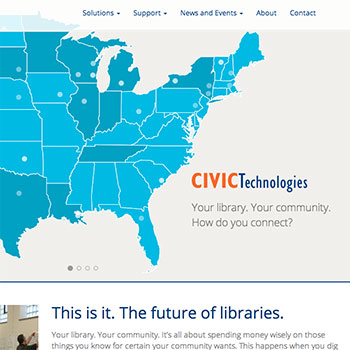
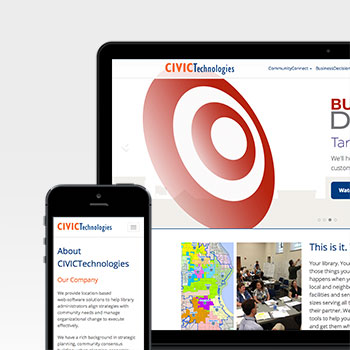
Add civic website project, fix overflow bug on project filter.

diff --git a/css/main.css b/css/main.css
@@ -82,15 +82,14 @@ h2 {
   color: #D41E47;
 }
 h3 {
-  font-size: 1rem !important;
-  font-weight: bold;
+  font-size: 1rem;
 }
 @media (min-width: 481px) {
   h2 {
     font-size: 1.4rem;
   }
   h3 {
-    font-size: 1.2rem !important;
+    font-size: 1.2rem;
     font-weight: normal;
   }
 }
@@ -358,6 +357,10 @@ blockquote p:last-child {
  * MixItUp Filtering
  */
 
+#Container {
+  /* Bug fix to stop scroll bars from showing up while filtering */
+  overflow: hidden;
+}
 #Container .mix {
 	display: none;
   float: none;
@@ -475,7 +478,6 @@ blockquote p:last-child {
   }
 }
 .staff-bio h3 {
-  font-size: 1.3rem;
   color: #7E7E7E;
   margin-top: 0;
 }

diff --git a/work/_posts/2014-05-01-jolly-wolly-fun-dips-packaging.md b/work/_posts/2014-05-01-jolly-wolly-fun-dips-packaging.md
@@ -9,5 +9,5 @@ tags:
 
 ![Jolly Wolly Fun Dips Packaging](/img/jolly-wolly-packaging.jpg)
 ![Jolly Wolly Fun Dips Packaging](/img/jolly-wolly-packaging-3.jpg)
-![Jolly Wolly Fun Dips Packaging](/img/jolly-wolly-packaging-2.jpg)
 ![Jolly Wolly Fun Dips Packaging](/img/jolly-wolly-packaging-1.jpg)
+![Jolly Wolly Fun Dips Packaging](/img/jolly-wolly-packaging-2.jpg)

diff --git a/work/_posts/2014-05-13-civictechnologies-website.md b/work/_posts/2014-05-13-civictechnologies-website.md
@@ -3,7 +3,11 @@ layout: project
 title:  CIVICTechnologies Website
 client: CIVICTechnologies
 image: civictechnologies-website-thumbnail.jpg
+address: civictechnologies.com
 tags:
-- case-study
-- web
+- Case Study
+- Web
 ---
+
+![CIVICTechnologies Website](/img/civictechnologies-website-1.jpg)
+![CIVICTechnologies Website](/img/civictechnologies-website-2.jpg)
